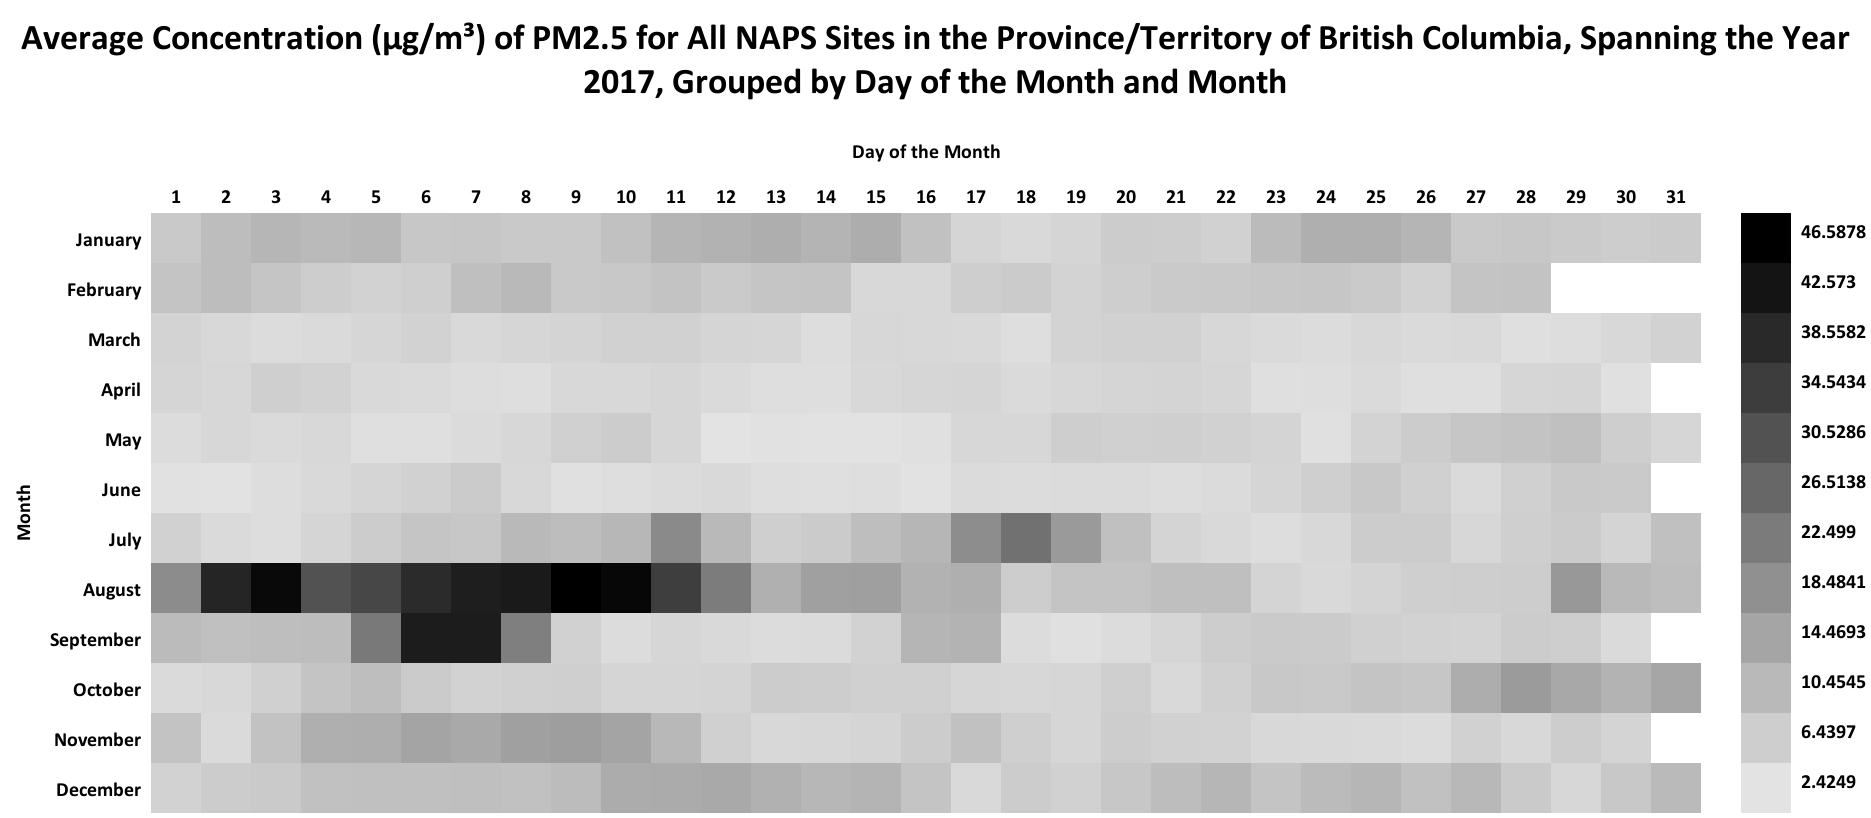
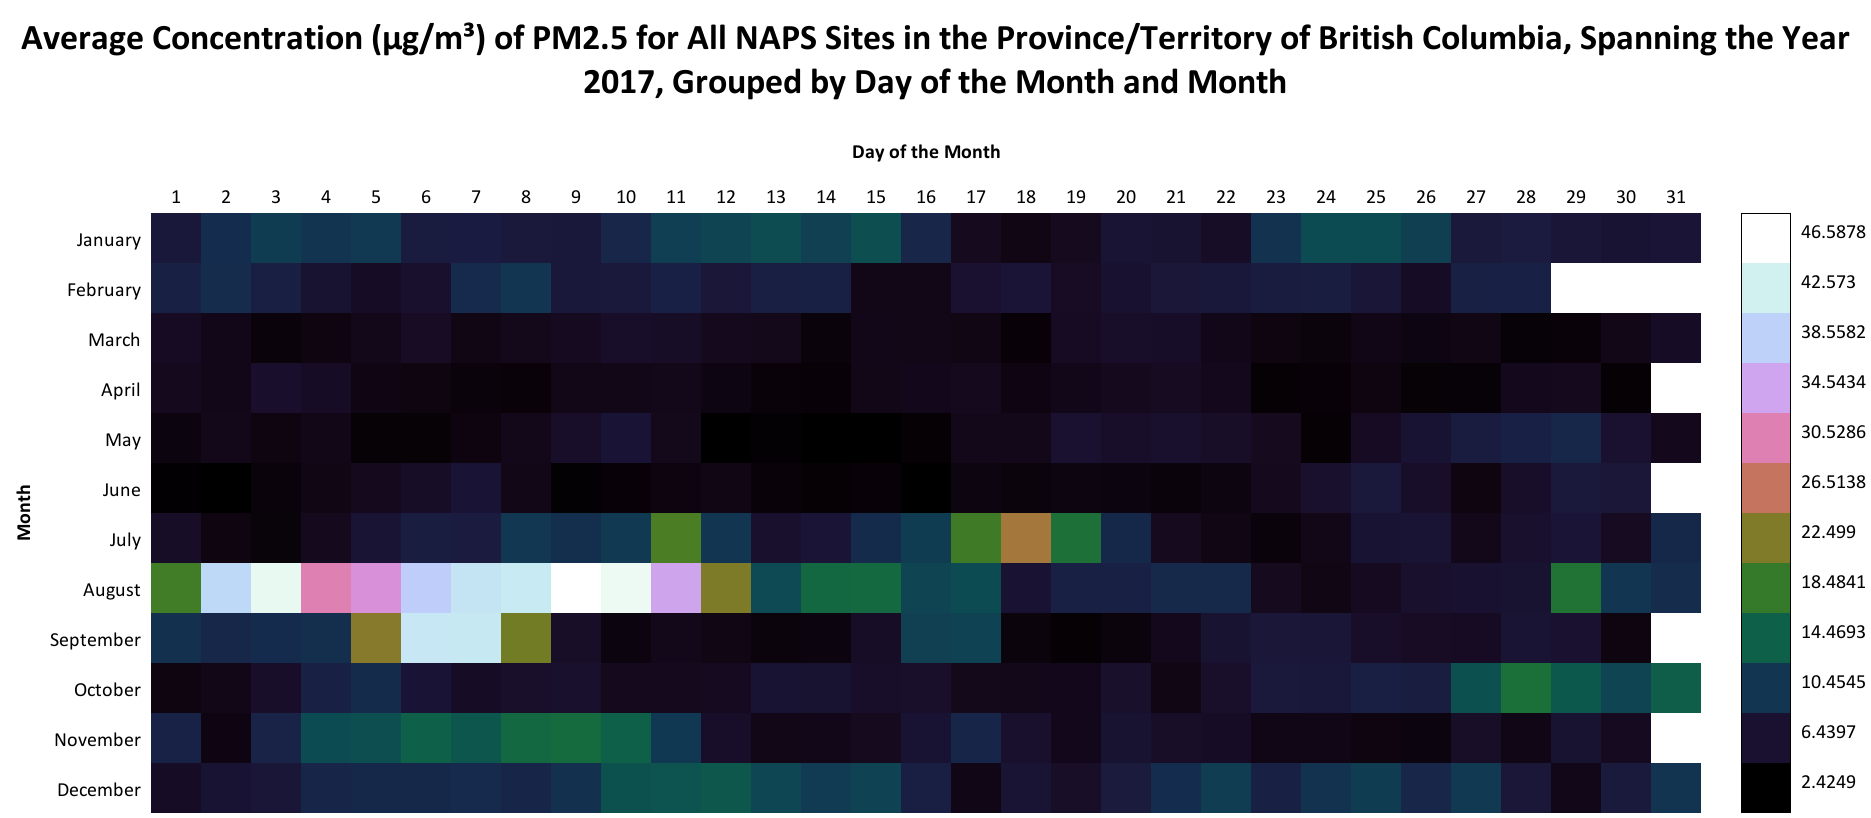
Added a check for negative integrated data points that represent values below the detection limit. Fixed city name and site name queries. Fixed long heat map X-axis labels that were not always being rotated. Added a border to the heat map legend. Added a feature that automatically makes the heat map

diff --git a/src/main/java/com/dbf/naps/data/db/mappers/DataMapper.java b/src/main/java/com/dbf/naps/data/db/mappers/DataMapper.java
@@ -29,8 +29,8 @@ public interface DataMapper {
 			+ " d.year &gt;= #{startYear} and d.year &lt;= #{endYear}"
 			+ "<if test=\"valueUpperBound != null\">and d.data &lt;= #{valueUpperBound}</if>"
 			+ "<if test=\"valueLowerBound != null\">and d.data &gt;= #{valueLowerBound}</if>"
-			+ "<if test=\"siteName != null &amp;&amp; !siteName.isEmpty()\">and s.station_name LIKE '%#{siteName}%'</if>"
-			+ "<if test=\"cityName != null &amp;&amp; !cityName.isEmpty()\">and s.city_name LIKE '%#{cityName}%'</if>"
+			+ "<if test=\"siteName != null &amp;&amp; !siteName.isEmpty()\">and s.station_name LIKE '%' || #{siteName} || '%'</if>"
+			+ "<if test=\"cityName != null &amp;&amp; !cityName.isEmpty()\">and s.city_name LIKE '%' || #{cityName} || '%'</if>"
 			+ "<if test=\"provTerr != null &amp;&amp; !provTerr.isEmpty()\">and s.prov_terr in <foreach collection='provTerr' item='prov' index='index' open='(' separator = ',' close=')'>#{prov}</foreach></if>"
 			+ "<if test=\"siteType != null &amp;&amp; !siteType.isEmpty()\">and s.site_type in <foreach collection='siteType' item='sType' index='index' open='(' separator = ',' close=')'>#{sType}</foreach></if>"
 			+ "<if test=\"urbanization != null &amp;&amp; !urbanization.isEmpty()\">and s.urbanization in <foreach collection='urbanization' item='urb' index='index' open='(' separator = ',' close=')'>#{urb}</foreach></if>"
@@ -71,8 +71,8 @@ public interface DataMapper {
 			+ " where 1=1"
 			+ "<if test=\"valueUpperBound != null\">and d.data &lt;= #{valueUpperBound}</if>"
 			+ "<if test=\"valueLowerBound != null\">and d.data &gt;= #{valueLowerBound}</if>"
-			+ "<if test=\"siteName != null &amp;&amp; !siteName.isEmpty()\">and s.station_name LIKE '%#{siteName}%'</if>"
-			+ "<if test=\"cityName != null &amp;&amp; !cityName.isEmpty()\">and s.city_name LIKE '%#{cityName}%'</if>"
+			+ "<if test=\"siteName != null &amp;&amp; !siteName.isEmpty()\">and s.station_name LIKE '%' || #{siteName} || '%'</if>"
+			+ "<if test=\"cityName != null &amp;&amp; !cityName.isEmpty()\">and s.city_name LIKE '%' || #{cityName} || '%'</if>"
 			+ "<if test=\"provTerr != null &amp;&amp; !provTerr.isEmpty()\">and s.prov_terr in <foreach collection='provTerr' item='prov' index='index' open='(' separator = ',' close=')'>#{prov}</foreach></if>"
 			+ "<if test=\"siteType != null &amp;&amp; !siteType.isEmpty()\">and s.site_type in <foreach collection='siteType' item='sType' index='index' open='(' separator = ',' close=')'>#{sType}</foreach></if>"
 			+ "<if test=\"urbanization != null &amp;&amp; !urbanization.isEmpty()\">and s.urbanization in <foreach collection='urbanization' item='urb' index='index' open='(' separator = ',' close=')'>#{urb}</foreach></if>"
@@ -131,8 +131,8 @@ public interface DataMapper {
 			+ " where 1=1"
 			+ "<if test=\"valueUpperBound != null\">and d.data &lt;= #{valueUpperBound}</if>"
 			+ "<if test=\"valueLowerBound != null\">and d.data &gt;= #{valueLowerBound}</if>"
-			+ "<if test=\"siteName != null &amp;&amp; !siteName.isEmpty()\">and s.station_name LIKE '%#{siteName}%'</if>"
-			+ "<if test=\"cityName != null &amp;&amp; !cityName.isEmpty()\">and s.city_name LIKE '%#{cityName}%'</if>"
+			+ "<if test=\"siteName != null &amp;&amp; !siteName.isEmpty()\">and s.station_name LIKE '%' || #{siteName} || '%'</if>"
+			+ "<if test=\"cityName != null &amp;&amp; !cityName.isEmpty()\">and s.city_name LIKE '%' || #{cityName} || '%'</if>"
 			+ "<if test=\"provTerr != null &amp;&amp; !provTerr.isEmpty()\">and s.prov_terr in <foreach collection='provTerr' item='prov' index='index' open='(' separator = ',' close=')'>#{prov}</foreach></if>"
 			+ "<if test=\"siteType != null &amp;&amp; !siteType.isEmpty()\">and s.site_type in <foreach collection='siteType' item='sType' index='index' open='(' separator = ',' close=')'>#{sType}</foreach></if>"
 			+ "<if test=\"urbanization != null &amp;&amp; !urbanization.isEmpty()\">and s.urbanization in <foreach collection='urbanization' item='urb' index='index' open='(' separator = ',' close=')'>#{urb}</foreach></if>"

diff --git a/src/main/java/com/dbf/naps/data/analysis/heatmap/HeatMapGradient.java b/src/main/java/com/dbf/naps/data/analysis/heatmap/HeatMapGradient.java
@@ -63,6 +63,59 @@ public class HeatMapGradient {
 			Color.decode("#000000"), //Black
 	};
 	
+	private static final Color[] CUBEHELIX_GRADIENT = new Color[] {
+			Color.decode("#000000"),
+			Color.decode("#090309"),
+			Color.decode("#100614"),
+			Color.decode("#160a1f"),
+			Color.decode("#190f2b"),
+			Color.decode("#1a1536"),
+			Color.decode("#1a1c3f"),
+			Color.decode("#182448"),
+			Color.decode("#152d4e"),
+			Color.decode("#123752"),
+			Color.decode("#104153"),
+			Color.decode("#0e4b53"),
+			Color.decode("#0d544f"),
+			Color.decode("#0e5d4b"),
+			Color.decode("#126644"),
+			Color.decode("#176d3d"),
+			Color.decode("#207336"),
+			Color.decode("#2a782f"),
+			Color.decode("#387b29"),
+			Color.decode("#477d25"),
+			Color.decode("#577d23"),
+			Color.decode("#697d24"),
+			Color.decode("#7b7c28"),
+			Color.decode("#8d7a2f"),
+			Color.decode("#9e7938"),
+			Color.decode("#ae7745"),
+			Color.decode("#bd7654"),
+			Color.decode("#c87564"),
+			Color.decode("#d27677"),
+			Color.decode("#d9788a"),
+			Color.decode("#dd7b9d"),
+			Color.decode("#de80af"),
+			Color.decode("#de86c1"),
+			Color.decode("#db8dd1"),
+			Color.decode("#d795de"),
+			Color.decode("#d29fe9"),
+			Color.decode("#cca9f1"),
+			Color.decode("#c7b3f7"),
+			Color.decode("#c3bdfa"),
+			Color.decode("#c0c8fb"),
+			Color.decode("#bed1fa"),
+			Color.decode("#bfdaf8"),
+			Color.decode("#c2e2f6"),
+			Color.decode("#c7e9f3"),
+			Color.decode("#cdeff1"),
+			Color.decode("#d6f3f0"),
+			Color.decode("#e0f7f0"),
+			Color.decode("#eafaf3"),
+			Color.decode("#f5fdf8"),
+			Color.decode("#ffffff")
+	};
+	
 	
 	private static final List<Color[]> GRADIENTS = new ArrayList<Color[]>();
 	
@@ -73,6 +126,7 @@ public class HeatMapGradient {
 		GRADIENTS.add(COLOUR_BLIND_GRADIENT);
 		GRADIENTS.add(BLACK_RED_ORANGE_GRADIENT);
 		GRADIENTS.add(WHITE_HOT_GRADIENT);
+		GRADIENTS.add(CUBEHELIX_GRADIENT);
 		GRADIENTS.add(GREY_GRADIENT);
 	}
 	

diff --git a/src/main/java/com/dbf/naps/data/analysis/heatmap/HeatMapRunner.java b/src/main/java/com/dbf/naps/data/analysis/heatmap/HeatMapRunner.java
@@ -112,7 +112,7 @@ public abstract class HeatMapRunner extends DataQueryRunner<HeatMapOptions> {
 		final int halfCellHeight = cellHeight / 2;
 		
 		//Only rotate the x-axis labels when they are too big
-		final boolean rotateXLabels = (xAxisLabelHeight - labelPadding) > cellWidth;
+		final boolean rotateXLabels = (xAxisLabelHeight ) > (cellWidth- labelPadding);
 		if(!rotateXLabels) {
 			xAxisLabelHeight = xAxisLabelMaxSize.getValue();
 		}
@@ -182,8 +182,13 @@ public abstract class HeatMapRunner extends DataQueryRunner<HeatMapOptions> {
         
         //Start the actual drawing onto the canvas
 		 try {
-			//Make the background all white
-			g2d.setColor(Color.WHITE);
+			//Make the background all white, except if the colour scale goes to white
+			Color maxColour = HeatMapGradient.getColour(1.0, colourGradient);
+			if(maxColour.getBlue() > 240 && maxColour.getGreen() > 240 && maxColour.getRed() > 240) {
+				g2d.setColor(new Color(210, 210, 210));
+			} else {
+				g2d.setColor(Color.WHITE);
+			}
 			g2d.fillRect(0, 0, imageWidth, imageHeight);
 				
 			//Render the text smoothly
@@ -229,6 +234,10 @@ public abstract class HeatMapRunner extends DataQueryRunner<HeatMapOptions> {
     			}
 				g2d.fillRect(legendStartPosX, legendStartPosY + (i * cellHeight), cellWidth, cellHeight);	
     		}
+    		
+    		//Render the legend border on top of the boxes
+    		g2d.setColor(Color.BLACK);
+    		g2d.drawRect(legendStartPosX, legendStartPosY, cellWidth-1, (cellHeight*legendBoxes) -1);
     		
     		//Will will need to determine the width of each title individually using fontMetrics
     		g2d.setFont(smallTitleFont);

diff --git a/src/main/java/com/dbf/naps/data/utilities/DataCleaner.java b/src/main/java/com/dbf/naps/data/utilities/DataCleaner.java
@@ -10,6 +10,8 @@ import java.util.regex.Pattern;
 import org.slf4j.Logger;
 import org.slf4j.LoggerFactory;
 
+import com.dbf.naps.data.globals.Constants;
+
 public class DataCleaner {
 	
 	private static final Logger log = LoggerFactory.getLogger(DataCleaner.class);
@@ -52,13 +54,19 @@ public class DataCleaner {
 	}
 	
 	public static BigDecimal extractDecimalData(String rawValue, boolean ignoreError) {
-		//Data points are allowed to be null
+		//These all represent missing data points
+		//Data points are allowed to be null.
+		//Negative data points are different. They generally represent "below the detection limit"
 		if (rawValue == null || rawValue.equals("") || rawValue.equals("-") || rawValue.startsWith("-99")) return null;
 		
 		try {
 			BigDecimal decimalVal = new BigDecimal(rawValue);
 			 //Make sure the scale is less than the error of a double
 			decimalVal = decimalVal.setScale(10, RoundingMode.HALF_UP);
+			if (decimalVal.compareTo(Constants.bigDecimal0) < 0) {
+				//Negative values are to be treated as below the detection limit and thus zero
+				decimalVal = Constants.bigDecimal0;
+			}
     		return decimalVal;
 		} catch (NumberFormatException e){
 			if(!ignoreError) throw new IllegalArgumentException("Invalid decimal data point: " + rawValue, e);

diff --git a/src/main/java/com/dbf/naps/data/analysis/DataQueryRunner.java b/src/main/java/com/dbf/naps/data/analysis/DataQueryRunner.java
@@ -186,7 +186,9 @@ public abstract class DataQueryRunner<O extends DataQueryOptions> extends FileRu
 			break;
 		}
 		
-		if(!getConfig().getAggregateFunction().equals(AggregateFunction.NONE) && !getConfig().getAggregateFunction().equals(AggregateFunction.COUNT)) {
+		if(units != null && !units.isEmpty()
+				&& !getConfig().getAggregateFunction().equals(AggregateFunction.NONE)
+				&& !getConfig().getAggregateFunction().equals(AggregateFunction.COUNT)) {
 			title.append(" (");
 			title.append(units);
 			title.append(")");

diff --git a/src/main/java/com/dbf/naps/data/globals/Constants.java b/src/main/java/com/dbf/naps/data/globals/Constants.java
@@ -21,5 +21,6 @@ public class Constants {
 	public static final int DATASET_YEAR_END   = Year.now().getValue();
 	
 	public static final BigDecimal bigDecimal1000 = new BigDecimal(1000);
+	public static final BigDecimal bigDecimal0 = new BigDecimal(0);
 	
 }
